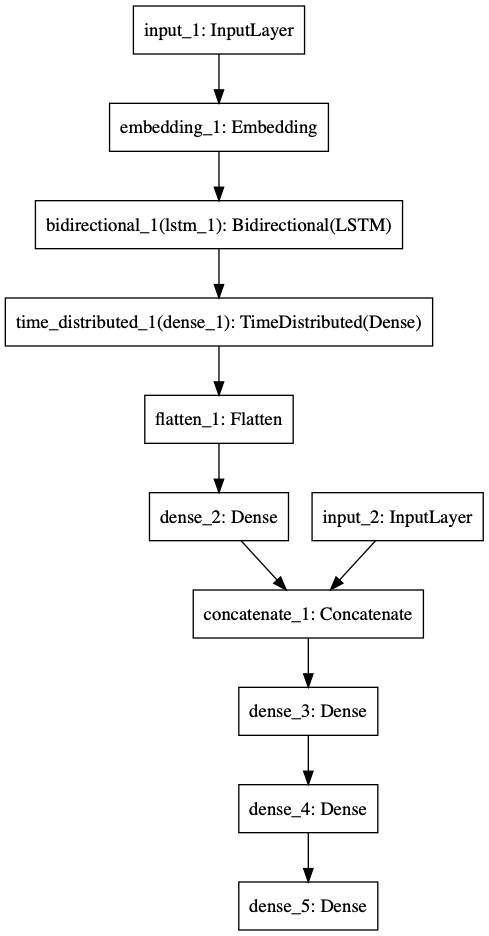
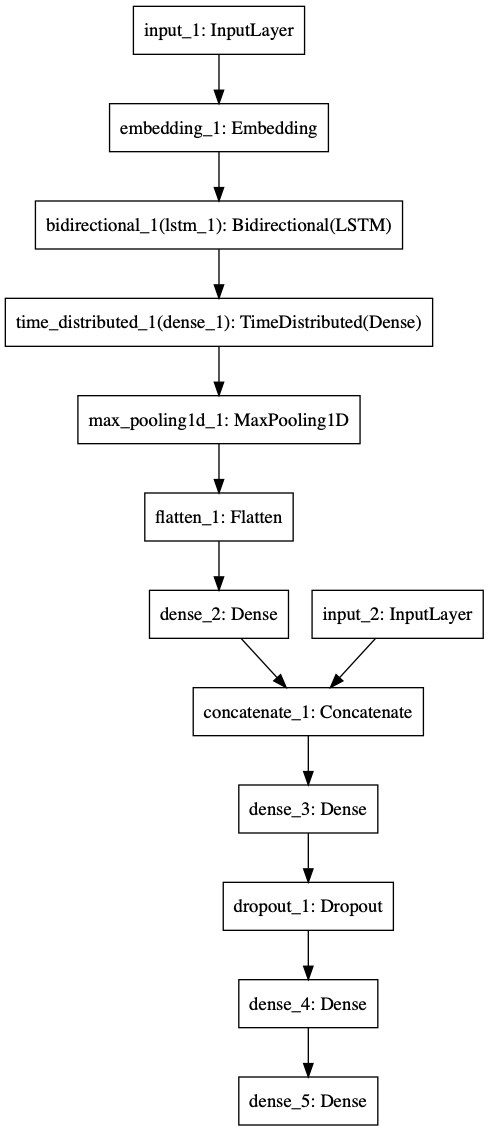
Adding Pooling and Dropout layers to prevent overfitting.

Changed region(s): [[0.0, 0.0, 1.0, 1.0]]

diff --git a/main.py b/main.py
@@ -15,6 +15,7 @@ def train_and_evaluate(args):
     lstm_model = Bidirectional(LSTM(bi_lstm_out_dim, return_sequences=True, dropout=0.25, recurrent_dropout=0.1))(
         lstm_model)
     lstm_model = TimeDistributed(Dense(bi_lstm_out_dim, activation='relu'))(lstm_model)
+    lstm_model = MaxPool1D(3)(lstm_model)
     lstm_model = Flatten()(lstm_model)
     bi_lstm_output = Dense(bi_lstm_out_dim, activation='relu')(lstm_model)
 
@@ -23,6 +24,7 @@ def train_and_evaluate(args):
     nn_input = Input(shape=(num_behavioral_features,))
     nn_model = Concatenate()([nn_input, bi_lstm_output])
     nn_model = Dense(12, input_dim=nn_input_dim, activation='relu')(nn_model)
+    nn_model = Dropout(0.25)(nn_model)
     nn_model = Dense(8, activation='relu')(nn_model)
     nn_output = Dense(output_dim_nn, activation='sigmoid')(nn_model)
 
@@ -30,6 +32,9 @@ def train_and_evaluate(args):
     model.compile(loss=model_loss_function, optimizer='adam', metrics=['accuracy'])
     print('Model Summary:- \n\n')
     model.summary()
+    # For model visualization:-
+    # from keras.utils import plot_model
+    # plot_model(model, to_file='model.png')
 
     model.fit([dataset.x_linguistic_train(), dataset.x_behavioral_train()], dataset.y_train(),
               batch_size=args.batch_size,
@@ -56,7 +61,8 @@ if __name__ == '__main__':
     cmd_args = parser.parse_args()
 
     from keras import Input, Model
-    from keras.layers import Embedding, Bidirectional, TimeDistributed, Flatten, Dense, LSTM, Concatenate
+    from keras.layers import Embedding, Bidirectional, TimeDistributed
+    from keras.layers import Flatten, Dense, LSTM, Concatenate, Dropout, MaxPool1D
     from dataset_generation import gen_dataset
     from dataset_generation.constants import Constants
 
